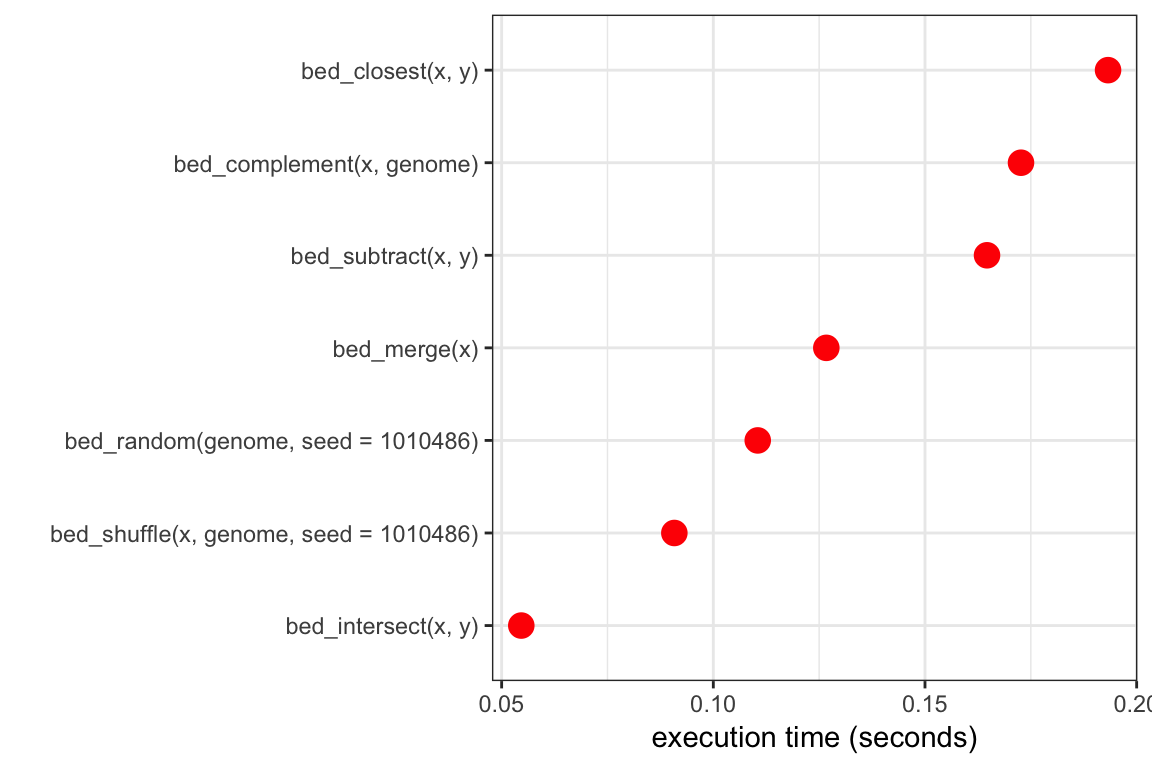
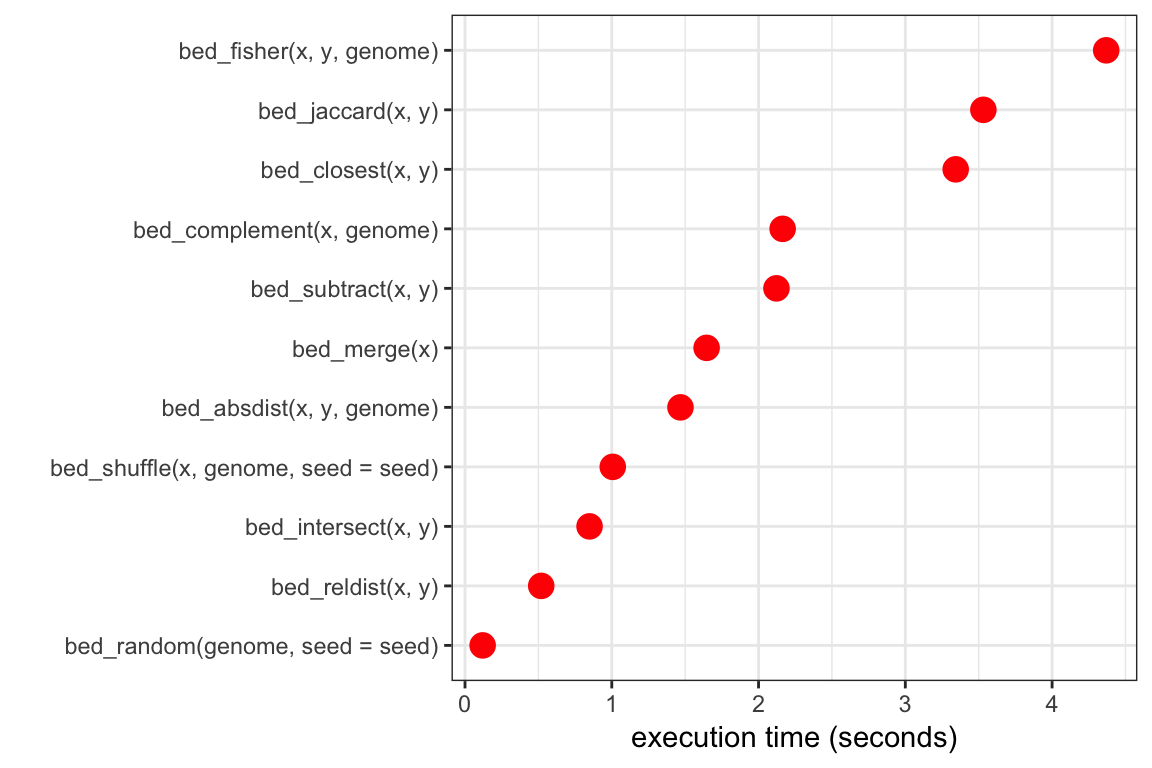
update benchmarks in vignette - show results for 1e6 intervals - add interval stat fxns

diff --git a/docs/articles/valr.html b/docs/articles/valr.html
@@ -71,7 +71,7 @@
     <div class="page-header toc-ignore">
       <h1>valr overview</h1>
             
-            <h4 class="date">2017-03-19</h4>
+            <h4 class="date">2017-03-22</h4>
           </div>
 
     
@@ -359,23 +359,23 @@ shuffled
 <span class="co">#&gt; # A tibble: 100 × 3</span>
 <span class="co">#&gt;      rep                  data      jaccard</span>
 <span class="co">#&gt;    &lt;chr&gt;                &lt;list&gt;        &lt;dbl&gt;</span>
-<span class="co">#&gt; 1      1 &lt;tibble [10,000 × 6]&gt; 0.0003554402</span>
-<span class="co">#&gt; 2      2 &lt;tibble [10,000 × 6]&gt; 0.0003977802</span>
-<span class="co">#&gt; 3      3 &lt;tibble [10,000 × 6]&gt; 0.0004502532</span>
-<span class="co">#&gt; 4      4 &lt;tibble [10,000 × 6]&gt; 0.0002597589</span>
-<span class="co">#&gt; 5      5 &lt;tibble [10,000 × 6]&gt; 0.0003382550</span>
-<span class="co">#&gt; 6      6 &lt;tibble [10,000 × 6]&gt; 0.0004013087</span>
-<span class="co">#&gt; 7      7 &lt;tibble [10,000 × 6]&gt; 0.0003407355</span>
-<span class="co">#&gt; 8      8 &lt;tibble [10,000 × 6]&gt; 0.0004877504</span>
-<span class="co">#&gt; 9      9 &lt;tibble [10,000 × 6]&gt; 0.0002723894</span>
-<span class="co">#&gt; 10    10 &lt;tibble [10,000 × 6]&gt; 0.0004006493</span>
+<span class="co">#&gt; 1      1 &lt;tibble [10,000 × 6]&gt; 0.0004376491</span>
+<span class="co">#&gt; 2      2 &lt;tibble [10,000 × 6]&gt; 0.0002911571</span>
+<span class="co">#&gt; 3      3 &lt;tibble [10,000 × 6]&gt; 0.0003969787</span>
+<span class="co">#&gt; 4      4 &lt;tibble [10,000 × 6]&gt; 0.0003279117</span>
+<span class="co">#&gt; 5      5 &lt;tibble [10,000 × 6]&gt; 0.0003239776</span>
+<span class="co">#&gt; 6      6 &lt;tibble [10,000 × 6]&gt; 0.0008284006</span>
+<span class="co">#&gt; 7      7 &lt;tibble [10,000 × 6]&gt; 0.0003356493</span>
+<span class="co">#&gt; 8      8 &lt;tibble [10,000 × 6]&gt; 0.0003479919</span>
+<span class="co">#&gt; 9      9 &lt;tibble [10,000 × 6]&gt; 0.0004043911</span>
+<span class="co">#&gt; 10    10 &lt;tibble [10,000 × 6]&gt; 0.0001914222</span>
 <span class="co">#&gt; # ... with 90 more rows</span></code></pre></div>
 </div>
 </div>
 <div id="benchmarks" class="section level2">
 <h2 class="hasAnchor">
 <html><body><a href="#benchmarks" class="anchor"> </a></body></html>Benchmarks</h2>
-<p>Certain algorithms in <code>valr</code> were implemented in <code>Rcpp</code> to enable fluid interactive analysis. This graph illustrates the timing of functions in <code>valr</code> for two sets of 100,000 random 1 kilobase intervals from the hg19 genome.</p>
+<p>Certain algorithms in <code>valr</code> were implemented in <code>Rcpp</code> to enable fluid interactive analysis. This graph illustrates the timing of functions in <code>valr</code> for two sets of 1 million random 1 kilobase intervals from the hg19 genome.</p>
 <p><img src="img/overview-benchmarks-1.png" width="576" style="display: block; margin: auto;"></p>
 </div>
 <div id="api" class="section level2">
